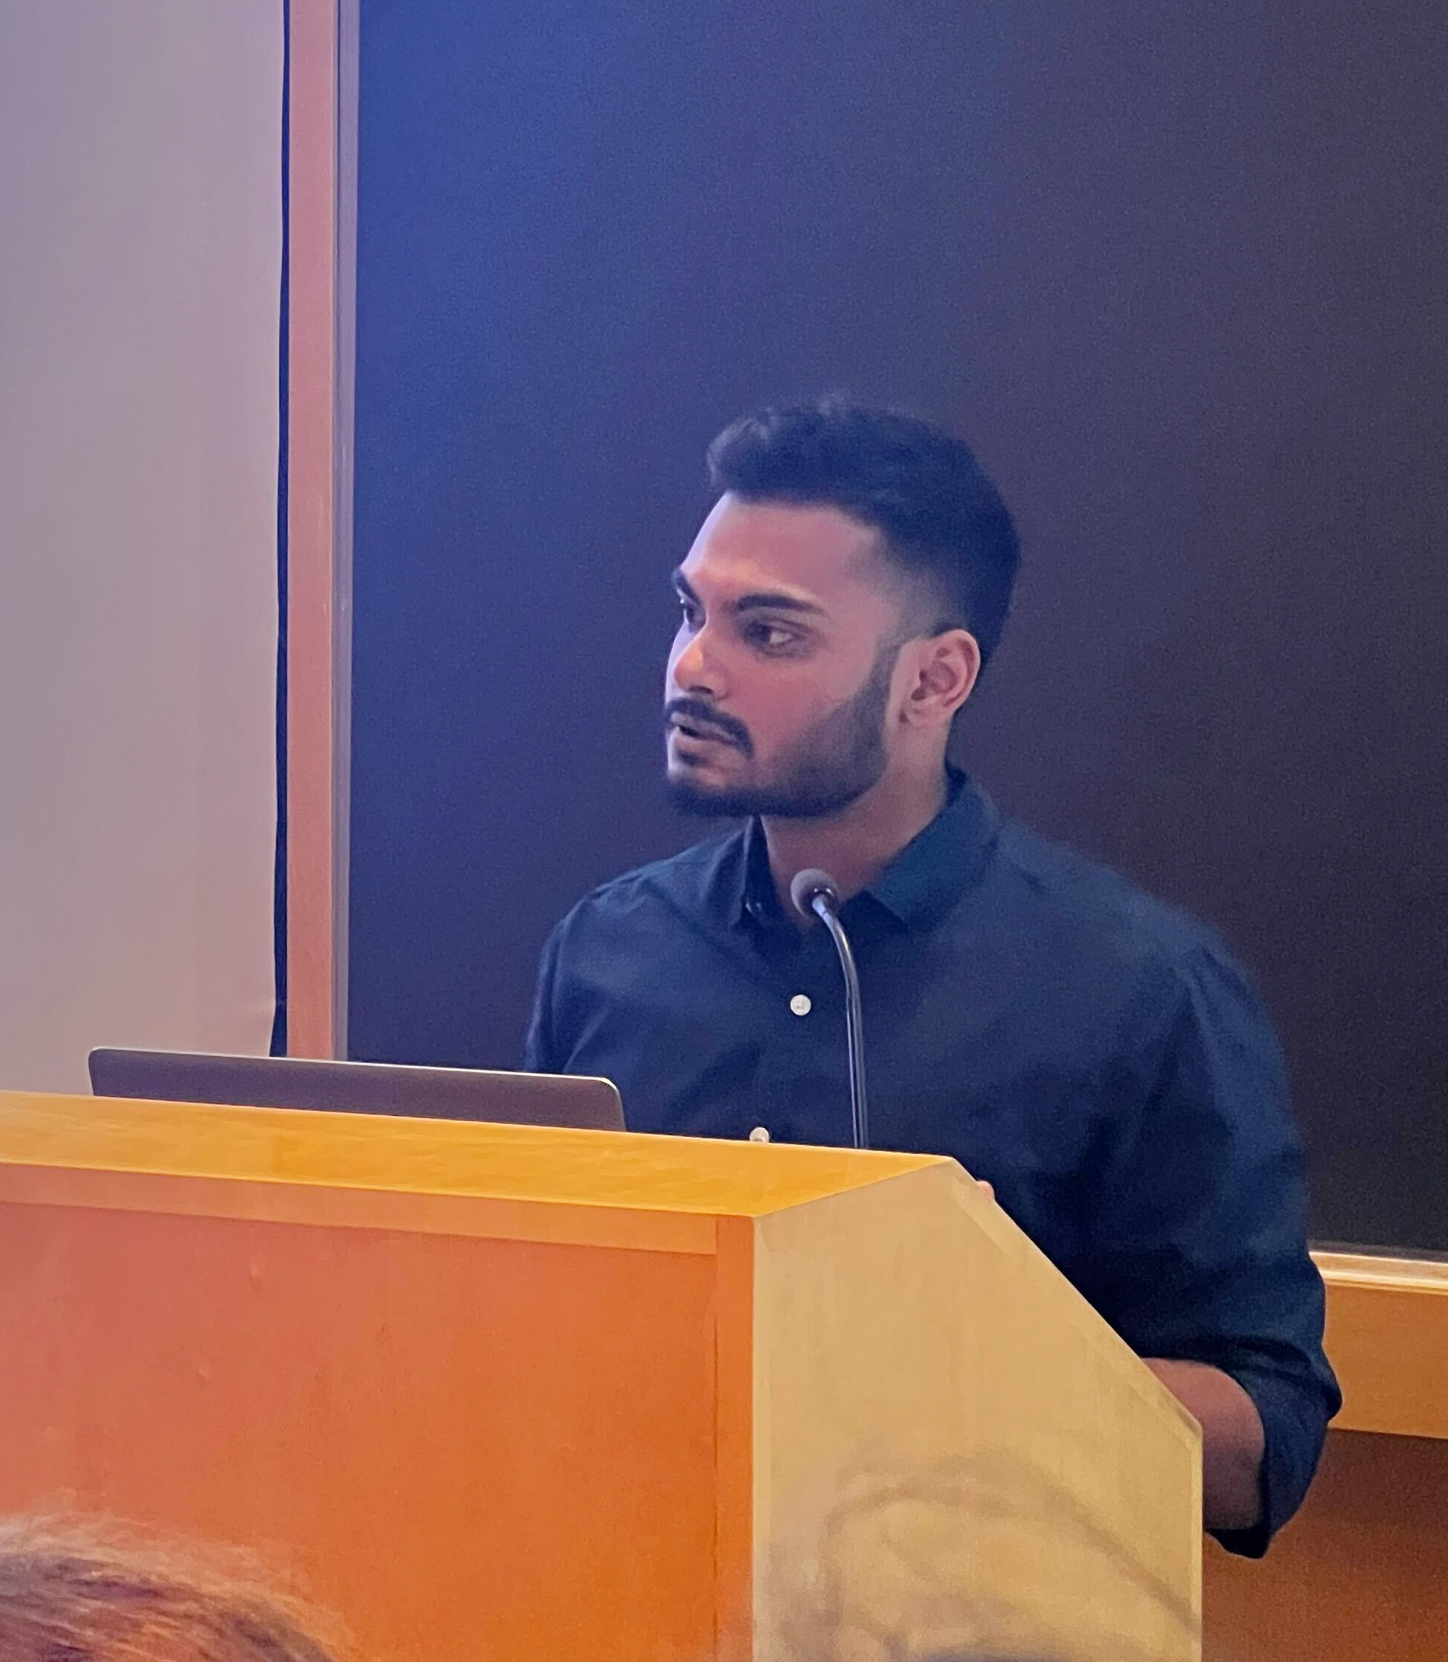
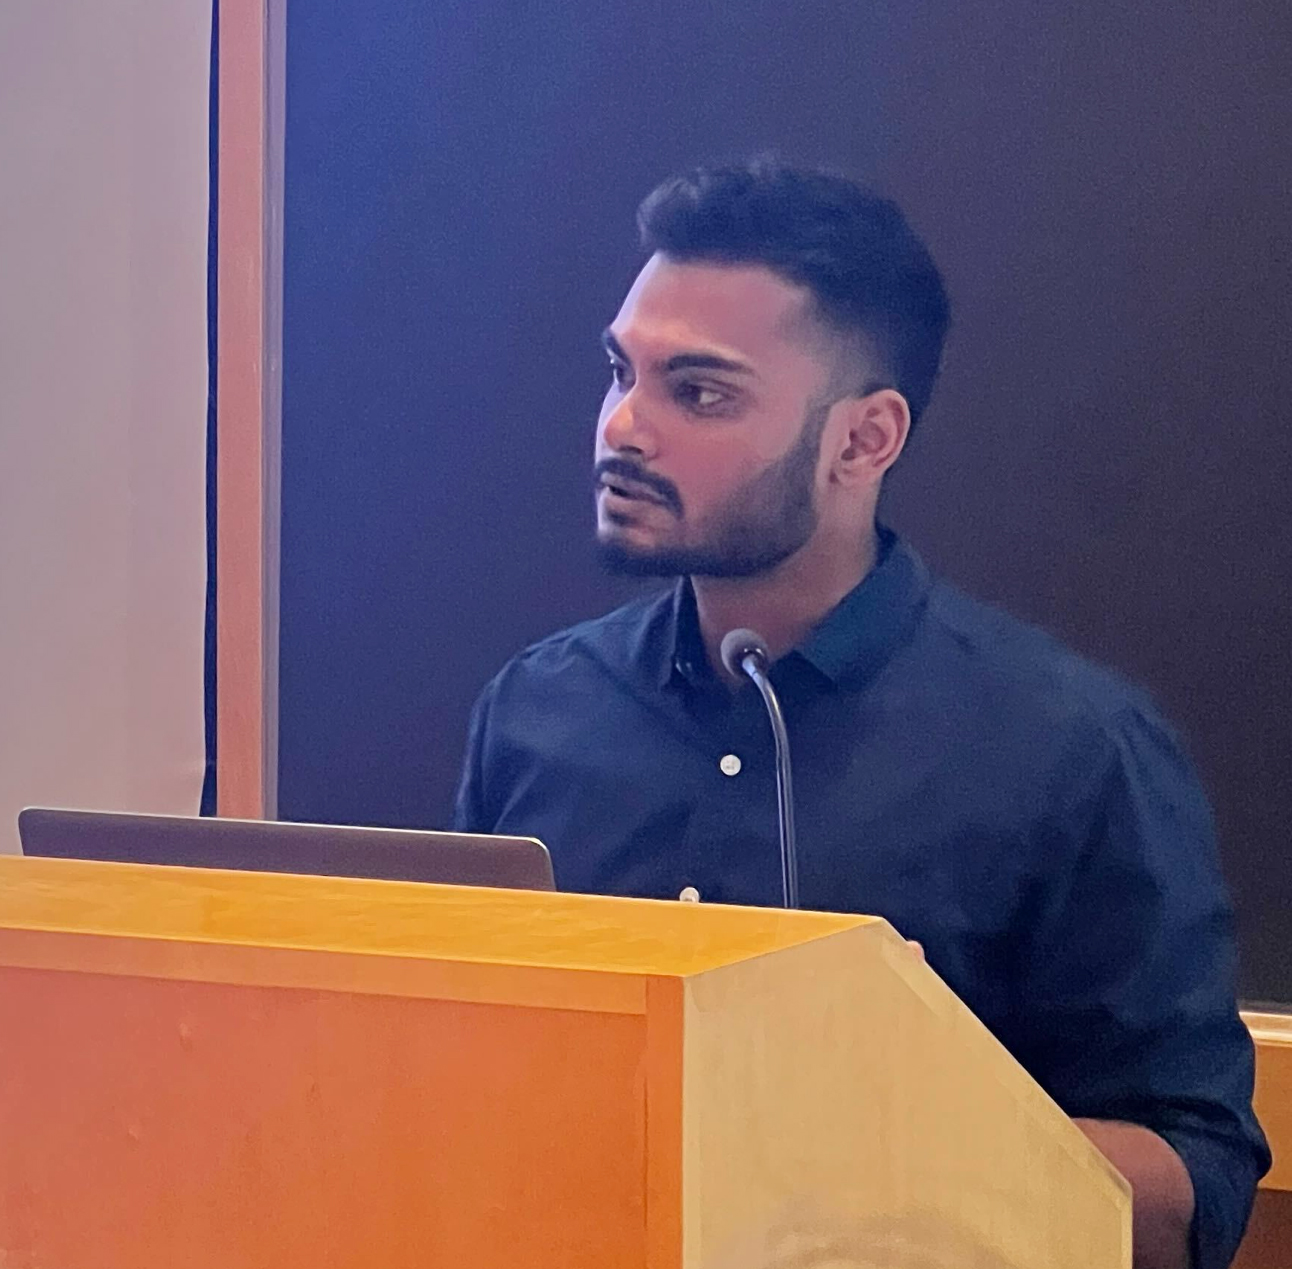
Add files via upload

Changed region(s): [[0.0, 0.0, 1.0, 1.0], [0.0, 0.8913, 0.2477, 1.0]]

diff --git a/index.html b/index.html
@@ -23,7 +23,7 @@
 			  <a href="https://rdatta31.github.io/publications.html">Publications</a> |
 			  <a href="https://rdatta31.github.io/projects.html">Research</a> </p>
 			  
-			  	<p align="center"><img src="https://raw.githubusercontent.com/rdatta31/rdatta31.github.io/master/headhot2022_small.png"
+			  	<p align="center"><img src="https://raw.githubusercontent.com/rdatta31/rdatta31.github.io/master/headshot2024_small.png"
 			alt = "Headshot" width="250"></>
 			
 			<p class = "bio"> Rishabh Datta is a Postdoctoral Associate at the MIT Plasma Science and Fusion Center.
@@ -50,7 +50,7 @@
 			<p class= "menu">Menu: <a href="https://rdatta31.github.io/">News</a> |
 			  <a href="https://rdatta31.github.io/publications.html">Publications</a> |
 			  <a href="https://rdatta31.github.io/projects.html">Research</a> </p>
-			<p align="center"><img class = "headshot" src="https://raw.githubusercontent.com/rdatta31/rdatta31.github.io/master/headhot2022.jpg"
+			<p align="center"><img class = "headshot" src="https://raw.githubusercontent.com/rdatta31/rdatta31.github.io/master/headshot2024.jpeg"
 			alt = "Headshot"></>
 
 			<p class = "bioside"> Rishabh Datta is a Postdoctoral Associate at the MIT Plasma Science and Fusion Center.

diff --git a/projects.html b/projects.html
@@ -23,7 +23,7 @@
 			  <a href="https://rdatta31.github.io/publications.html">Publications</a> |
 			  <a href="https://rdatta31.github.io/projects.html">Research</a> </p>
 			  
-			  	<p align="center"><img src="https://raw.githubusercontent.com/rdatta31/rdatta31.github.io/master/headhot2022_small.png"
+			  	<p align="center"><img src="https://raw.githubusercontent.com/rdatta31/rdatta31.github.io/master/headshot2024_small.png"
 			alt = "Headshot" width="250"></>
 			
 			<p class = "bio"> Rishabh Datta is a Postdoctoral Associate at the MIT Plasma Science and Fusion Center.
@@ -50,7 +50,7 @@
 			<p class= "menu">Menu: <a href="https://rdatta31.github.io/">News</a> |
 			  <a href="https://rdatta31.github.io/publications.html">Publications</a> |
 			  <a href="https://rdatta31.github.io/projects.html">Research</a> </p>
-			<p align="center"><img class = "headshot" src="https://raw.githubusercontent.com/rdatta31/rdatta31.github.io/master/headhot2022.jpg"
+			<p align="center"><img class = "headshot" src="https://raw.githubusercontent.com/rdatta31/rdatta31.github.io/master/headshot2024.jpeg"
 			alt = "Headshot"></>
 
 			<p class ="bioside"> Rishabh Datta is a Postdoctoral Associate at the MIT Plasma Science and Fusion Center.

diff --git a/publications.html b/publications.html
@@ -23,7 +23,7 @@
 			  <a href="https://rdatta31.github.io/publications.html">Publications</a> |
 			  <a href="https://rdatta31.github.io/projects.html">Research</a> </p>
 			  
-			  	<p align="center"><img src="https://raw.githubusercontent.com/rdatta31/rdatta31.github.io/master/headhot2022_small.png"
+			  	<p align="center"><img src="https://raw.githubusercontent.com/rdatta31/rdatta31.github.io/master/headshot2024_small.png"
 			alt = "Headshot" width="250"></>
 			
 			<p class = "bio"> Rishabh Datta is a Postdoctoral Associate at the MIT Plasma Science and Fusion Center.
@@ -50,7 +50,7 @@
 			<p class= "menu">Menu: <a href="https://rdatta31.github.io/">News</a> |
 			  <a href="https://rdatta31.github.io/publications.html">Publications</a> |
 			  <a href="https://rdatta31.github.io/projects.html">Research</a> </p>
-			<p align="center"><img class = "headshot" src="https://raw.githubusercontent.com/rdatta31/rdatta31.github.io/master/headhot2022.jpg"
+			<p align="center"><img class = "headshot" src="https://raw.githubusercontent.com/rdatta31/rdatta31.github.io/master/headshot2024.jpeg"
 			alt = "Headshot"></>
 
 			<p class ="bioside"> Rishabh Datta is a Postdoctoral Associate at the MIT Plasma Science and Fusion Center.
